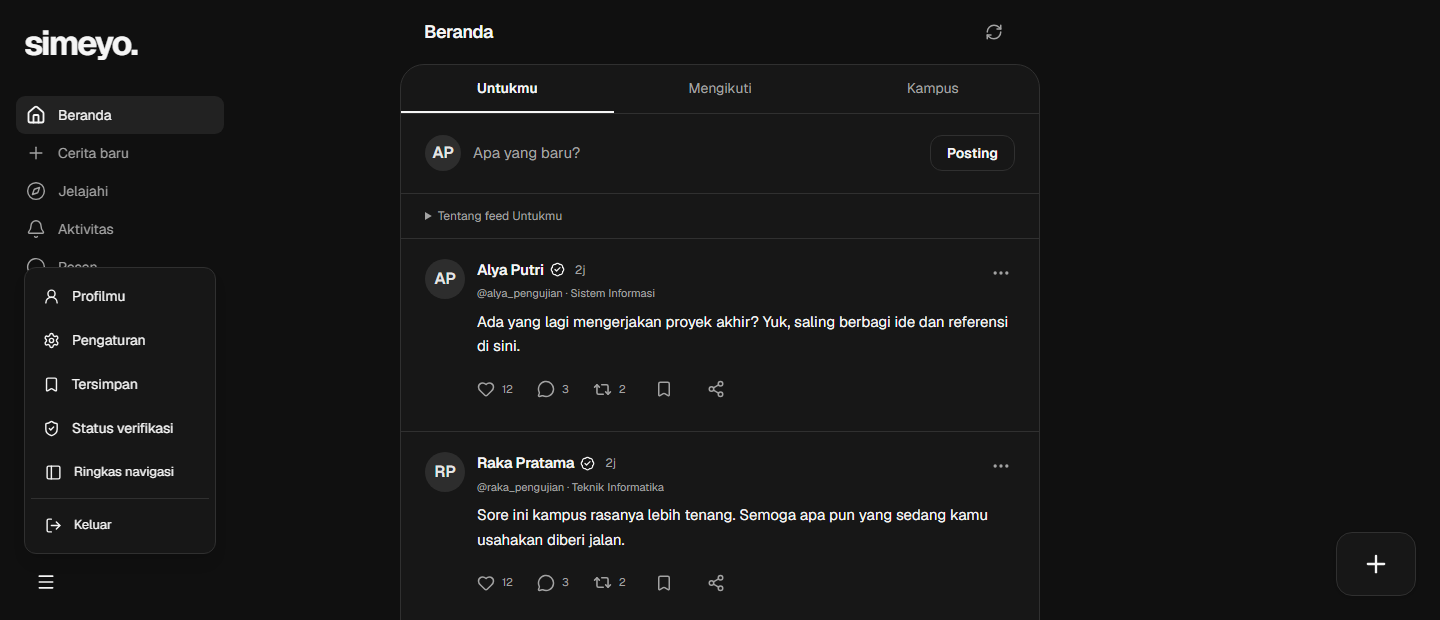
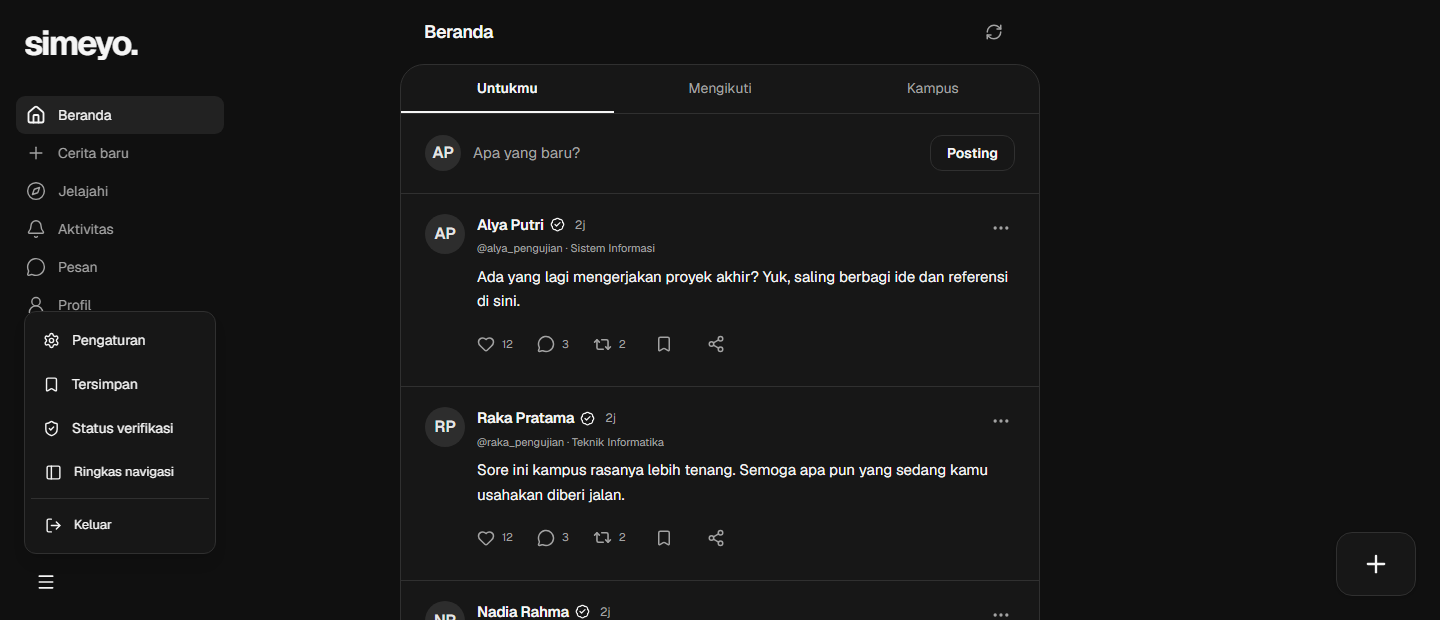
docs: record cleaner feed and menu verification [skip ci]

diff --git a/docs/operations/mediasi-server.md b/docs/operations/mediasi-server.md
@@ -38,3 +38,7 @@ The registration endpoint was removed from the temporary Nginx guard. An empty r
 Bottom-menu follow-up: source 6b33ab8 is deployed as `consumer-6b33ab8`. Both images built successfully; only web/gateway were recreated, with a private environment rollback snapshot retained. Six fixture-based UI tests against the public assets passed (27.7 seconds), including the bottom-left/upward popup at 620px height and navigation collapse/expand. The screenshot was inspected. Trusted internal HTTPS/security/health checks and actual WSS handshake passed. No migration, seeding or production account mutation accompanied this update.
 
 UI source 34412db is deployed as `consumer-34412db`. API images were also built under that tag for future Compose consistency; only web and gateway were recreated. The API/worker/Reverb containers retain the working Firebase release code and existing database/media volumes. Private environment snapshots and previous immutable images remain available for rollback. No migration or seeding accompanied this presentation update. Public-backed fictional UI probes passed 6 tests / 20.7 seconds; trusted internal TLS/security/WSS checks passed. The latest full real-API browser and standard checks remain running at the recorded checkpoint; see the consumer UI test report for links and exact scope.
+
+
+Latest cleanup: source 67fea8b deployed as consumer-67fea8b. Removed the home feed explanation strip and duplicate profile menu entry. Web lint/type checking/build passed; all six public-assets UI tests passed with fictional API fixtures (19.9 seconds). Fresh screenshot inspected; trusted internal TLS/security/health and WSS handshake passed. Only web/gateway recreated, with data and credentials preserved. Latest standard CI remains pending; earlier 34412db full browser workflow 38734142021 completed successfully.
+

diff --git a/PROGRESS.md b/PROGRESS.md
@@ -119,3 +119,7 @@ Previously deployed source 34412db as `consumer-34412db` after building fresh im
 Actual evidence: latest local UI 6 passed / 13.2 seconds; deployed-public-assets UI 6 passed / 20.7 seconds using fictional API fixtures. Exercised 320/390/768/1440 layouts, light/dark, menu collapse/expand, modal draft safety, post failures, pagination failures, focused dark editor and audience privacy guidance. Fresh public-backed screenshots were inspected. Internal origin TLS/security/WSS checks passed again. The earlier source 2a3b7f2 full real API browser run 38732069351 passed all 23 tests; its standard checks 38732065245 passed all four jobs, including PostgreSQL 78 tests / 507 assertions and load/recovery. The new 34412db full browser run 38734142021 and standard run 38734113559 are still pending completion at this checkpoint. Do not claim those runs passed. See docs/testing/consumer-ui-2026-10-15.md.
 
 Continue with those running checks and address any actual failures. Real campus Google-account acceptance, native installed-device/push/store acceptance, email delivery, off-host recovery and other documented v1 gates remain outstanding. No claim of a bug-free product or completed v1 release.
+
+
+Latest cleanup: source 67fea8b deployed as consumer-67fea8b. Removed the home feed explanation strip and duplicate profile menu entry. Web lint/type checking/build passed; all six public-assets UI tests passed with fictional API fixtures (19.9 seconds). Fresh screenshot inspected; trusted internal TLS/security/health and WSS handshake passed. Only web/gateway recreated, with data and credentials preserved. Latest standard CI remains pending; earlier 34412db full browser workflow 38734142021 completed successfully.
+

diff --git a/docs/testing/consumer-ui-2026-10-15.md b/docs/testing/consumer-ui-2026-10-15.md
@@ -30,3 +30,7 @@ The owner supplied Threads screenshots as a layout/interaction reference. Simeyo
 Source 34412db includes the focused composer and consolidated header menu. Image `consumer-34412db` built successfully and was deployed by recreating only web/gateway. All six tests passed against the public deployed assets with fictional API fixtures (20.7 seconds), including the focused dark editor, themed audience radio menu, correct follower guidance and header navigation collapse/expand. Fresh dark focused-editor/menu screenshots were visually inspected. Internal trusted TLS, API/database/security checks and actual WebSocket handshake passed again.
 
 The [latest full browser workflow](https://github.com/mhmdhabibrafi/simeyo/actions/runs/38734142021) and [standard checks](https://github.com/mhmdhabibrafi/simeyo/actions/runs/38734113559) have been launched; do not mark either passed until its result is available. Latest native installed-device, physical push and real Google campus-account acceptance remain outside this UI evidence. No claim that every possible bug or v1 release gate is complete.
+
+
+Latest cleanup: source 67fea8b deployed as consumer-67fea8b. Removed the home feed explanation strip and duplicate profile menu entry. Web lint/type checking/build passed; all six public-assets UI tests passed with fictional API fixtures (19.9 seconds). Fresh screenshot inspected; trusted internal TLS/security/health and WSS handshake passed. Only web/gateway recreated, with data and credentials preserved. Latest standard CI remains pending; earlier 34412db full browser workflow 38734142021 completed successfully.
+
